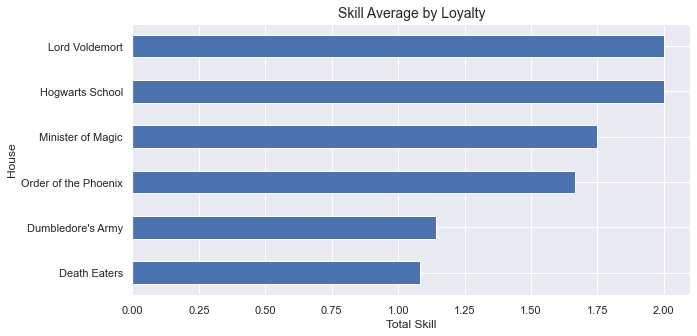
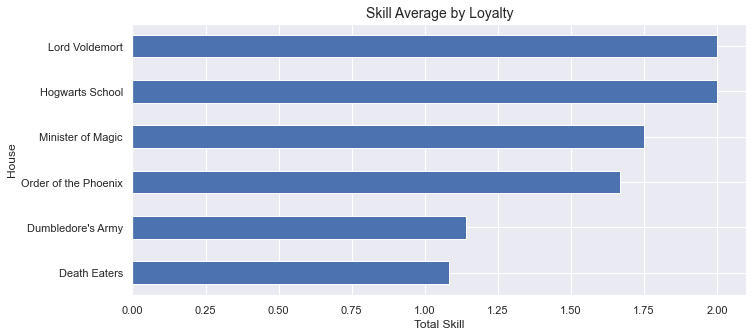
fix chart size

diff --git a/harry_potter/README.md b/harry_potter/README.md
@@ -34,22 +34,22 @@ This dataset contains data of 140 characters, which represent one sample of abou
 
 ## Results
 
-1- How many female and male characters?
+### 1- How many female and male characters?
 
 ![graph](image/gender.png "gender.png")<br>
 
-2- How many characters by house? <br>
+### 2- How many characters by house? <br>
 ![graph](image/house.png "house.png")<br>
 
-3- Relation of Loyality x House <br>
+### 3- Relation of Loyality x House <br>
 ![graph](image/house_loyalt.png "house_loyalt.png")<br>
 
 - I don't know about you, but I was impressed by how many Death Eater is, Gryffindor and Hufflepuff present the lower percentage.
 
-4- Relation of Loyality x Species <br>
+### 4- Relation of Loyality x Species <br>
 ![graph](image/specie_loyalt.png)<br>
 
-5- What is the comoon skill for each school? <br>
+### 5- What is the comoon skill for each school? <br>
 
 #### Gryffindor
 ![alt text](image/gryffindor_wc.jpg "gryffindor_wc.jpg")
@@ -64,21 +64,17 @@ This dataset contains data of 140 characters, which represent one sample of abou
 ![alt text](image/ravenclaw_wc.jpg "ravenclaw_wc.jpg")
 
 
-6- Total Skills by House <br>
+### 6- Total Skills by House <br>
 ![graph](image/hist_house.png "hist_house.png")<br>
-
-![graph](image/hist_avg_house.png "hist_avg_house.png")<br>
 
 - In terms of quantity Gryffindor has the greater result, but on the other hand, looking at the average we can see that Beauxbaton is bigger.
 
+![graph](image/hist_avg_house.png "hist_avg_house.png")<br>
 
-
-![graph](image/hist_house.png "hist_avg_house.png")<br>
-
-7- Total Skills by Blood Status <br>
+### 7- Skill Average by Blood Status <br>
 ![graph](image/hist_status.png "hist_status.png")<br>
 
-8- Total Skills by Loyalty <br>
+### 8- Skill Average by Loyalty <br>
 ![graph](image/hist_loyalty.png "hist_loyalty.png")<br>
 
 
